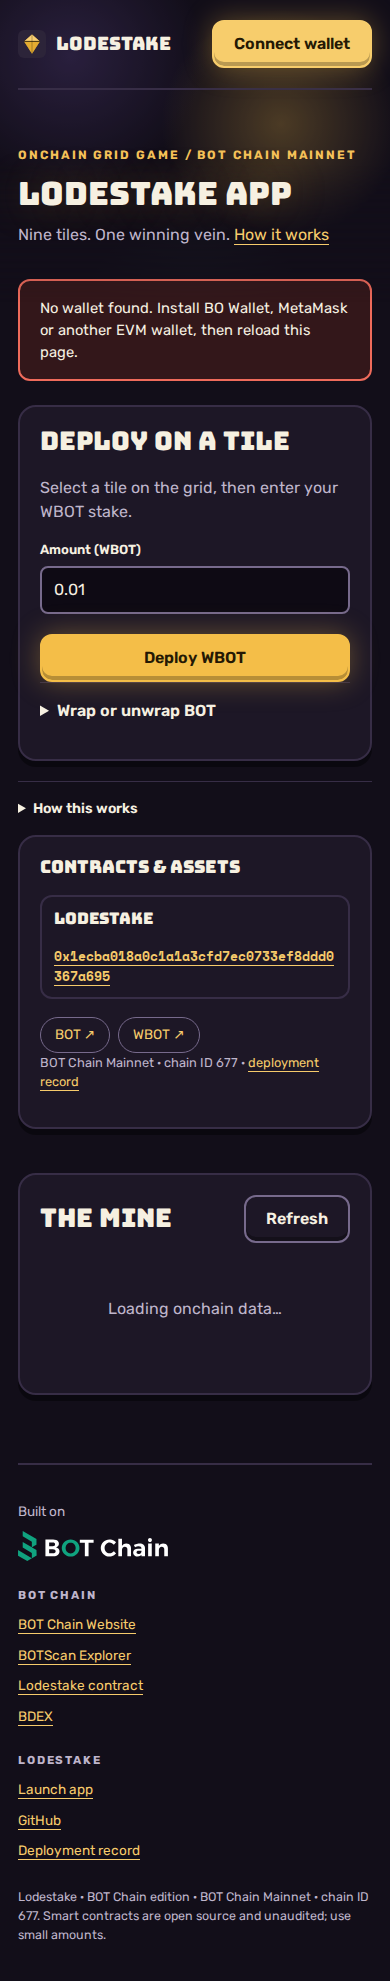
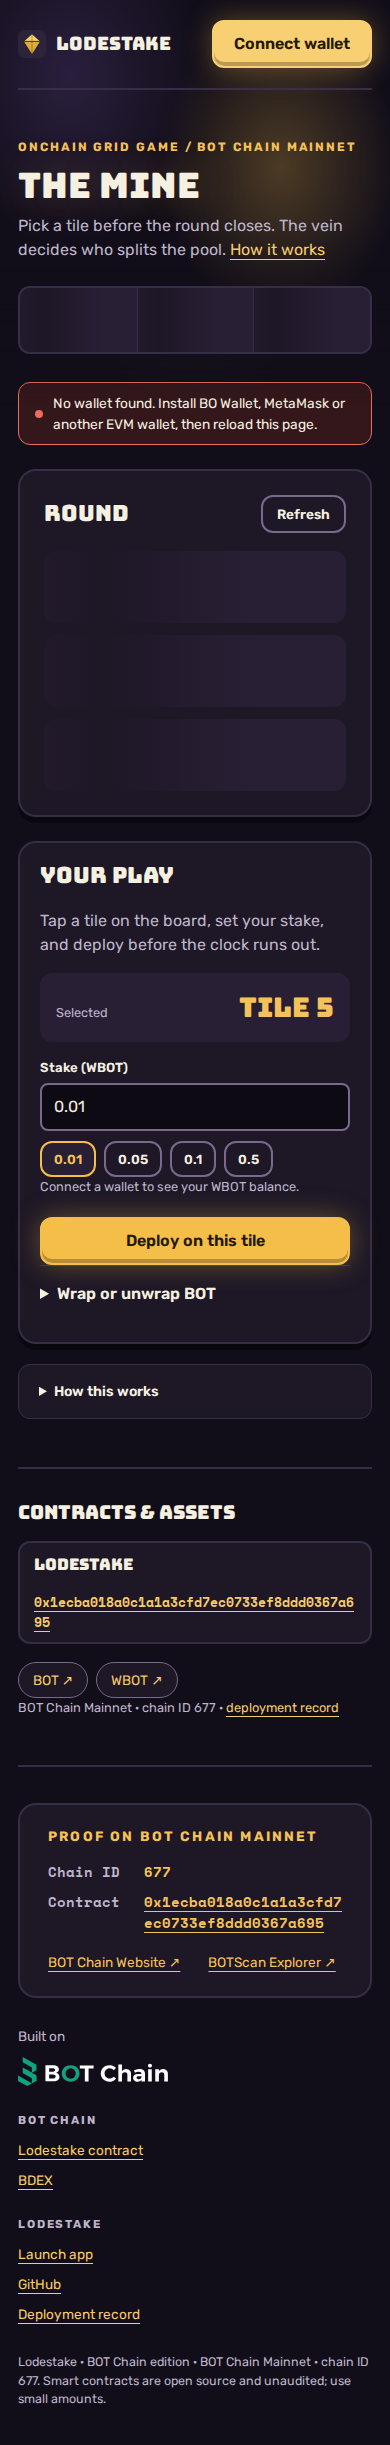
Per-product app layouts, live app-bar figures and Proof on BOT Chain Mainnet footer

diff --git a/web/base.css b/web/base.css
@@ -96,18 +96,42 @@ header{position:relative;z-index:3;display:flex;align-items:center;justify-conte
 .assets a{display:inline-flex;align-items:center;min-height:36px;padding:6px 14px;border:1px solid var(--line-strong);border-radius:var(--radius-pill);background:var(--surface);font-size:.85rem;text-decoration:none;color:var(--link)}
 .assets a:hover{border-color:var(--accent)}
 
-/* App page */
-.app-intro{position:relative;isolation:isolate;padding:52px 0 32px}
-.app-intro:before{content:'';position:absolute;left:50%;width:100vw;transform:translateX(-50%);top:-96px;bottom:-24px;z-index:-1;pointer-events:none;background:var(--hero-bg);opacity:.75;-webkit-mask-image:linear-gradient(#000 55%,transparent);mask-image:linear-gradient(#000 55%,transparent)}
-.app-intro h1{font-size:clamp(2rem,4vw,3rem);margin:12px 0}
-.app-intro p{margin:0}
-.status{margin-bottom:24px;padding:16px 20px;border:var(--border-w) solid var(--line);border-left-width:var(--border-w);border-radius:var(--radius-md);background:var(--surface);color:var(--ink);font-size:.92rem;overflow-wrap:anywhere}
-.status.error{border-color:var(--danger);background:var(--danger-bg)}
-.layout{display:grid;grid-template-columns:minmax(0,360px) minmax(0,1fr);gap:24px;align-items:start}
-.panel{padding:24px;margin-bottom:20px;background:var(--surface);border:var(--border-w) solid var(--line);border-radius:var(--radius-lg);box-shadow:var(--shadow-1)}
+/* App page: an app bar with live figures, then a product-specific workspace (data-layout). */
+.sr-only{position:absolute;width:1px;height:1px;margin:-1px;overflow:hidden;clip:rect(0 0 0 0);white-space:nowrap}
+.app-bar{position:relative;isolation:isolate;display:flex;flex-wrap:wrap;align-items:flex-end;justify-content:space-between;gap:24px 40px;padding:44px 0 28px}
+.app-bar:before{content:'';position:absolute;left:50%;width:100vw;transform:translateX(-50%);top:-96px;bottom:-24px;z-index:-1;pointer-events:none;background:var(--hero-bg);opacity:.75;-webkit-mask-image:linear-gradient(#000 55%,transparent);mask-image:linear-gradient(#000 55%,transparent)}
+.app-title{min-width:0;flex:1 1 380px}
+.app-title h1{font-size:clamp(2.2rem,4.6vw,3.6rem);margin:10px 0;max-width:none}
+.app-title p{margin:0;max-width:56ch}
+.stats{display:flex;flex-wrap:wrap;margin:0;border:var(--border-w) solid var(--line);border-radius:var(--radius-md);background:var(--surface);overflow:hidden}
+.stats>div{padding:12px 20px;min-width:118px}
+.stats>div+div{border-left:1px solid var(--line)}
+.stats dt{font-family:var(--font-label);font-size:.68rem;font-weight:700;letter-spacing:var(--label-tracking);text-transform:uppercase;color:var(--ink-2)}
+.stats dd{margin:4px 0 0;font-family:var(--font-mono);font-size:1.15rem;font-weight:700;font-variant-numeric:tabular-nums;color:var(--ink);white-space:nowrap}
+.skeleton{display:grid;gap:12px}
+.skeleton span,.skeleton-stat{display:block;height:72px;border-radius:var(--radius-md);background:linear-gradient(90deg,var(--surface-2) 25%,var(--surface) 50%,var(--surface-2) 75%);background-size:200% 100%;animation:shimmer 1.4s linear infinite}
+.skeleton-stat{width:118px;height:64px;border-radius:0}
+@keyframes shimmer{to{background-position:-200% 0}}
+.status{display:flex;align-items:center;gap:10px;margin-bottom:24px;padding:10px 16px;border:1px solid var(--line);border-radius:var(--radius-md);background:var(--surface);color:var(--ink-2);font-size:.86rem;overflow-wrap:anywhere}
+.status:before{content:'';flex:none;width:8px;height:8px;border-radius:50%;background:var(--live)}
+.status.error{border-color:var(--danger);background:var(--danger-bg);color:var(--ink)}
+.status.error:before{background:var(--danger)}
+.workspace{display:grid;gap:24px;align-items:start}
+.stage,.panel{min-width:0;padding:24px;background:var(--surface);border:var(--border-w) solid var(--line);border-radius:var(--radius-lg);box-shadow:var(--shadow-1)}
+.panel{margin-bottom:20px}
+.side{min-width:0}
+.panel>h2,.stage h2{font-size:clamp(1.4rem,2.4vw,1.9rem)}
 .panel p:first-of-type{margin-top:0}
+.workspace:is([data-layout=console],[data-layout=desk],[data-layout=wall]) .side{order:-1}
+@media(min-width:861px){
+ .workspace:is([data-layout=console],[data-layout=desk]){grid-template-columns:minmax(0,430px) minmax(0,1fr)}
+ .workspace:is([data-layout=board],[data-layout=sheet],[data-layout=calendar]){grid-template-columns:minmax(0,1fr) minmax(0,370px)}
+ .workspace:is([data-layout=board],[data-layout=sheet],[data-layout=calendar]) .side{order:1}
+ .workspace[data-layout=board] .side{position:sticky;top:20px}
+}
 .section-head{display:flex;justify-content:space-between;align-items:center;gap:20px;margin-bottom:18px}
-.section-head h2{margin:0}
+.section-head h2,.section-head h3{margin:0}
+button.quiet{min-height:38px;padding:6px 14px;font-size:.85rem;box-shadow:none}
 label{display:block;margin:16px 0 6px;font-size:.82rem;font-weight:600;color:var(--ink)}
 input,textarea,select{display:block;width:100%;min-width:0;min-height:44px;padding:10px 12px;background:var(--input-bg);color:var(--ink);border:var(--border-w) solid var(--line-strong);border-radius:var(--radius-sm)}
 input:hover,textarea:hover,select:hover{border-color:var(--ink-2)}
@@ -116,9 +140,10 @@ form button[type=submit]{width:100%;margin-top:20px}
 fieldset{min-width:0}
 details{padding:16px 0;border-top:1px solid var(--line)}
 summary{cursor:pointer;font-weight:600;color:var(--ink)}
-.rules{margin-top:20px;font-size:.88rem}
+.rules{padding:16px 20px;border:1px solid var(--line);border-radius:var(--radius-md);font-size:.88rem;background:var(--surface)}
 .rules li{margin:8px 0;color:var(--ink-2)}
-.record{font-size:.88rem;overflow-wrap:anywhere}
+.hint{margin:8px 0 0;font-size:.8rem;color:var(--ink-2)}
+.hint.error,.tiny.error{color:var(--danger-text)}
 .row{display:flex;justify-content:space-between;gap:16px;padding:9px 0;font-size:.92rem}
 .row span{color:var(--ink-2)}
 .amount{font-family:var(--font-display);font-size:1.8rem;font-weight:var(--display-weight);font-variant-numeric:tabular-nums;color:var(--ink)}
@@ -130,21 +155,105 @@ summary{cursor:pointer;font-weight:600;color:var(--ink)}
 .actions{display:flex;flex-wrap:wrap;gap:8px;margin-top:16px}
 .actions button{min-height:40px;padding:8px 14px;font-size:.85rem}
 .badge{font-family:var(--font-label);font-size:.72rem;font-weight:700;letter-spacing:var(--label-tracking);text-transform:uppercase;padding:5px 9px;border:1px solid var(--line-strong);border-radius:var(--radius-sm);color:var(--ink);background:var(--surface-2);white-space:nowrap}
+.badge.live{border-color:var(--accent);color:var(--accent-text)}
 .empty{padding:36px 8px;text-align:center;color:var(--ink-2)}
 .tiny{font-size:.8rem;color:var(--ink-2);overflow-wrap:anywhere}
-.tiny.error{color:var(--danger-text)}
+.mono{font-family:var(--font-mono);font-variant-numeric:tabular-nums}
+.sub{margin:22px 0 10px;font-family:var(--font-label);font-size:.72rem;font-weight:700;letter-spacing:var(--label-tracking);text-transform:uppercase;color:var(--ink-2)}
+/* Chips: quick amounts and slippage presets. */
+.chips{display:flex;flex-wrap:wrap;gap:8px;align-items:center;margin-top:10px}
+.chips button{min-height:36px;padding:6px 12px;font-size:.82rem;box-shadow:none}
+.chips button[aria-pressed=true]{border-color:var(--accent);color:var(--accent-text);background:var(--surface-2)}
+.chips input{width:84px;min-height:36px;padding:6px 10px}
+/* Swap ticket (Switchyard). */
+.swap-leg{padding:16px;background:var(--input-bg);border:var(--border-w) solid var(--line-strong);border-radius:var(--radius-md)}
+.swap-leg:focus-within{border-color:var(--accent)}
+.swap-leg>label,.leg-label{display:block;margin:0 0 6px;font-size:.78rem;font-weight:600;color:var(--ink-2)}
+.leg-row{display:flex;gap:10px;align-items:center}
+.leg-row input,.leg-row output{flex:1;min-width:0;min-height:48px;padding:0;border:0;background:none;font-family:var(--font-mono);font-size:clamp(1.4rem,3vw,1.9rem);font-weight:700;font-variant-numeric:tabular-nums}
+.leg-row output{display:flex;align-items:center;overflow:hidden;text-overflow:ellipsis;color:var(--ink)}
+.leg-row select{flex:none;width:auto;min-width:108px;font-weight:700;background:var(--surface-2)}
+.leg-meta{display:flex;justify-content:space-between;gap:12px;margin:6px 0 0;font-size:.78rem;color:var(--ink-2)}
+.leg-meta button{min-height:28px;padding:2px 10px;font-size:.75rem;box-shadow:none}
+.flip{display:flex;position:relative;z-index:1;width:44px;height:44px;margin:-8px auto;padding:0;border-radius:var(--radius-pill);background:var(--surface-2)}
+.flip svg{width:20px;height:20px}
+.quote{margin:16px 0 0}
+.quote>div{display:flex;justify-content:space-between;gap:12px;padding:8px 0;border-bottom:1px dashed var(--line);font-size:.85rem}
+.quote dt{color:var(--ink-2)}
+.quote dd{margin:0;font-family:var(--font-mono);color:var(--ink);text-align:right}
+/* Data tables: departure board, offer ledger. */
+.table-wrap{overflow-x:auto}
+table.board{width:100%;border-collapse:collapse;font-size:.88rem}
+.board th{padding:10px 12px;text-align:left;font-family:var(--font-label);font-size:.68rem;font-weight:700;letter-spacing:var(--label-tracking);text-transform:uppercase;color:var(--ink-2);border-bottom:var(--border-w) solid var(--line-strong)}
+.board td{padding:12px;border-bottom:1px solid var(--line);vertical-align:middle;font-variant-numeric:tabular-nums}
+.board .num{text-align:right;font-family:var(--font-mono)}
+.board tr:last-child td{border-bottom:0}
+@media(max-width:640px){.board.stack thead{display:none}.board.stack tr{display:grid;grid-template-columns:1fr auto;gap:4px 12px;padding:12px 0;border-bottom:1px solid var(--line)}.board.stack td{padding:0;border:0;text-align:left}.board.stack td.num{text-align:right}}
+/* Game board (Lodestake). */
+.hud{display:grid;grid-template-columns:repeat(3,minmax(0,1fr));gap:12px;margin-bottom:20px}
+.hud>div{padding:12px 14px;background:var(--surface-2);border-radius:var(--radius-md)}
+.hud span{display:block;font-family:var(--font-label);font-size:.68rem;font-weight:700;letter-spacing:var(--label-tracking);text-transform:uppercase;color:var(--ink-2)}
+.hud strong{display:block;margin-top:2px;font-family:var(--font-mono);font-size:1.3rem;font-variant-numeric:tabular-nums;color:var(--ink);white-space:nowrap;overflow:hidden;text-overflow:ellipsis}
+.hud .closed strong{color:var(--danger-text)}
+.mine{display:grid;grid-template-columns:repeat(3,minmax(0,1fr));gap:14px;max-width:560px;margin:0 auto}
+.mine button{aspect-ratio:1;flex-direction:column;align-items:stretch;justify-content:space-between;gap:6px;padding:14px;background:var(--tile);border-radius:var(--radius-md);text-align:left}
+.mine .n{font-family:var(--font-display);font-size:clamp(1.3rem,3vw,1.9rem);line-height:1}
+.mine .stake{font-family:var(--font-mono);font-size:.76rem;color:var(--ink-2);overflow-wrap:anywhere}
+.mine .share{display:block;height:6px;border-radius:var(--radius-pill);background:var(--bg);overflow:hidden}
+.mine .share i{display:block;height:100%;background:var(--accent)}
+.mine button[aria-pressed=true]{background:var(--accent);border-color:var(--accent);color:var(--accent-ink)}
+.mine button[aria-pressed=true] .stake{color:var(--accent-ink)}
+.mine button[aria-pressed=true] .share{background:var(--accent-ink)}
+.mine button[aria-pressed=true] .share i{background:var(--accent-hover)}
+.rounds{display:flex;gap:10px;overflow-x:auto;padding-bottom:6px}
+.round-chip{flex:none;min-width:128px;padding:10px 12px;border:var(--border-w) solid var(--line);border-radius:var(--radius-md);background:var(--surface-2);font-size:.8rem;color:var(--ink-2)}
+.round-chip strong{display:block;color:var(--ink);font-size:.9rem}
+.round-chip button{margin-top:8px;min-height:36px;padding:6px 10px;font-size:.78rem;width:100%}
+.picked{display:flex;align-items:baseline;justify-content:space-between;gap:12px;padding:14px 16px;margin:14px 0 4px;background:var(--surface-2);border-radius:var(--radius-md)}
+.picked span{font-size:.8rem;color:var(--ink-2)}
+.picked strong{font-family:var(--font-display);font-size:1.7rem;font-weight:var(--display-weight);color:var(--accent-text)}
+/* Basket factsheets (Hedgerow). */
+.sheets{display:grid;gap:18px}
+.sheet{padding:22px;background:var(--surface-2);border:1px solid var(--line);border-radius:var(--radius-md)}
+.sheet-head{display:flex;justify-content:space-between;align-items:flex-start;gap:12px 16px;flex-wrap:wrap}
+.sheet-head h3{margin:0;font-size:clamp(1.3rem,2.4vw,1.7rem);overflow-wrap:anywhere}
+.sheet-head .tiny{display:block;margin-top:4px}
+.sheet .badges{display:flex;gap:6px;flex-wrap:wrap}
+.alloc{display:flex;gap:2px;height:14px;margin:18px 0 10px;border-radius:var(--radius-pill);overflow:hidden}
+.alloc i{display:block;min-width:4px}
+.alloc i:nth-child(1),.legend li:nth-child(1):before{background:var(--accent)}
+.alloc i:nth-child(2),.legend li:nth-child(2):before{background:var(--focus)}
+.alloc i:nth-child(3),.legend li:nth-child(3):before{background:var(--link)}
+.alloc i:nth-child(4),.legend li:nth-child(4):before{background:var(--ink-2)}
+.alloc i:nth-child(5),.legend li:nth-child(5):before{background:var(--line-strong)}
+.legend{display:flex;flex-wrap:wrap;gap:6px 18px;list-style:none;padding:0;margin:0 0 6px;font-size:.84rem}
+.legend li{display:flex;align-items:center;gap:8px;color:var(--ink-2)}
+.legend li:before{content:'';width:10px;height:10px;border-radius:2px}
+.legend b{color:var(--ink);font-family:var(--font-mono);font-weight:600}
+.figs{display:grid;grid-template-columns:repeat(auto-fit,minmax(132px,1fr));gap:1px;margin:16px 0;background:var(--line);border:1px solid var(--line);border-radius:var(--radius-sm);overflow:hidden}
+.figs>div{padding:10px 12px;background:var(--surface)}
+.figs dt{font-family:var(--font-label);font-size:.66rem;font-weight:700;letter-spacing:var(--label-tracking);text-transform:uppercase;color:var(--ink-2)}
+.figs dd{margin:3px 0 0;font-family:var(--font-mono);font-size:.95rem;font-weight:600;color:var(--ink);overflow-wrap:anywhere}
+.meter{position:relative;height:8px;margin:12px 0 6px;border-radius:var(--radius-pill);background:var(--bg)}
+.meter i{display:block;height:100%;border-radius:inherit;background:var(--accent)}
+.you{margin:12px 0 0;padding:10px 12px;border-left:3px solid var(--accent);background:var(--surface);font-size:.85rem;color:var(--ink)}
+.basket{display:flex;gap:3px;margin:12px 0 14px;border-radius:var(--radius-sm);overflow:hidden}
+.basket span{min-width:0;padding:7px 8px;background:var(--surface-2);border-top:3px solid var(--accent);font-size:.75rem;white-space:nowrap;overflow:hidden;text-overflow:ellipsis}
+.weights{margin:18px 0 0;padding:4px 14px 12px;border:1px solid var(--line-strong);border-radius:var(--radius-md)}
+.weights legend{padding:0 6px;font-size:.8rem;font-weight:600}
+.weight-grid{display:grid;grid-template-columns:repeat(2,minmax(0,1fr));gap:0 12px}
+.weight-grid label{font-size:.76rem}
+.two{display:grid;grid-template-columns:repeat(2,minmax(0,1fr));gap:0 12px}
+.holdings{margin:6px 0 10px}
 .grid{display:grid;grid-template-columns:repeat(3,1fr);gap:10px;margin:20px 0}
 .grid button{aspect-ratio:1;flex-direction:column;gap:6px;padding:8px;background:var(--tile);border-radius:var(--radius-md)}
 .grid button[aria-pressed=true]{background:var(--accent);color:var(--accent-ink);border-color:var(--accent)}
 .grid button[aria-pressed=true] small{color:var(--accent-ink)}
 .grid small{font-size:.68rem;color:var(--ink-2)}
-.basket{display:flex;gap:3px;margin:12px 0 14px;border-radius:var(--radius-sm);overflow:hidden}
-.basket span{min-width:0;padding:7px 8px;background:var(--surface-2);border-top:3px solid var(--accent);font-size:.75rem;white-space:nowrap;overflow:hidden;text-overflow:ellipsis}
-.weights{margin:18px 0 0;padding:4px 14px 12px;border:1px solid var(--line-strong);border-radius:var(--radius-md)}
-.weights legend{padding:0 6px;font-size:.8rem;font-weight:600}
-.holdings{margin:6px 0 10px}
-.contracts-panel h2{font-size:1.1rem;margin-bottom:6px}
-.contracts-panel .contract{padding:10px 12px}
+.contracts-panel{margin-top:48px;padding-top:32px;border-top:var(--border-w) solid var(--line)}
+.contracts-panel h2{font-size:1.2rem;margin-bottom:6px}
+.contracts-panel .contracts{grid-template-columns:repeat(auto-fit,minmax(min(100%,420px),1fr))}
+.contracts-panel .contract{padding:10px 14px}
 a.asset{text-decoration-thickness:1px}
 .wallet-list{display:flex;flex-direction:column;gap:8px;margin:16px 0}
 .wallet-list button{justify-content:flex-start;text-align:left}
@@ -152,17 +261,28 @@ dialog{width:min(92vw,400px);padding:24px;background:var(--surface);color:var(--
 dialog::backdrop{background:var(--scrim)}
 dialog h2{margin-bottom:8px}
 dialog form>button{width:100%}
+@media(max-width:860px){.stats{width:100%}.stats>div{flex:1 1 33%}}
+@media(max-width:480px){.hud{grid-template-columns:repeat(2,minmax(0,1fr))}.hud>div:first-child{grid-column:1/-1}.mine{gap:8px}.mine button{padding:10px}.weight-grid,.two{grid-template-columns:1fr}.stats>div{padding:10px 14px;min-width:0}}
 
 /* Footer */
+.proof{grid-column:1/-1;padding:24px 28px;border:var(--border-w) solid var(--line);border-radius:var(--radius-lg);background:var(--surface)}
+.site-footer .proof h2{margin:0 0 16px;font-size:.85rem;color:var(--accent-text)}
+.proof dl{display:grid;grid-template-columns:auto minmax(0,1fr);gap:8px 24px;margin:0 0 18px;font-family:var(--font-mono);font-size:clamp(.9rem,1.6vw,1.1rem)}
+.proof dl div{display:contents}
+.proof dt{color:var(--ink-2)}
+.proof dd{margin:0;color:var(--accent-text);overflow-wrap:anywhere}
+.proof dd a{color:inherit}
+.proof-links{display:flex;flex-wrap:wrap;gap:12px 28px;margin:0}
+.proof-links a{color:var(--accent-text)}
 .site-footer{display:grid;grid-template-columns:1.2fr 1fr 1fr;gap:28px;margin-top:48px;padding:36px 0;border-top:var(--border-w) solid var(--line);font-size:.85rem;color:var(--ink-2)}
 .site-footer h2{margin:0 0 12px;font-family:var(--font-label);font-size:.72rem;font-weight:700;letter-spacing:var(--label-tracking);text-transform:uppercase;color:var(--ink-2)}
 .site-footer nav{display:flex;flex-direction:column;gap:10px}
 .built{display:inline-flex;flex-direction:column;gap:10px;color:var(--ink-2);text-decoration:none}
 .built img{width:150px;height:auto}
 .legal{grid-column:1/-1;margin:0;font-size:.78rem}
-.hidden{display:none!important}
+.hidden,[hidden]{display:none!important}
 
-@media(max-width:860px){.site-nav{display:none}.steps,.features,.facts{grid-template-columns:1fr}.site-footer{grid-template-columns:1fr}.hero{grid-template-columns:1fr;grid-template-areas:"copy" "art";gap:32px;min-height:0;padding:44px 0 48px}.hero-art svg{max-width:360px}.layout{grid-template-columns:1fr}}
+@media(max-width:860px){.site-nav{display:none}.steps,.features,.facts{grid-template-columns:1fr}.site-footer{grid-template-columns:1fr}.hero{grid-template-columns:1fr;grid-template-areas:"copy" "art";gap:32px;min-height:0;padding:44px 0 48px}.hero-art svg{max-width:360px}}
 @media(max-width:760px){.shell{padding:0 18px}.band{padding:44px 0}.panel{padding:20px}.cta-band{padding:36px 22px}#add-chain{display:none}.chain-badge.compact{display:none}}
 @media(max-width:480px){header{gap:10px}.header-actions{gap:6px}.chain-badge span{display:none}.chain-badge{padding:6px 8px}.chain-badge img{height:12px}.header-actions a.button{min-height:40px;padding:8px 12px;font-size:.85rem}.brand{font-size:1.15rem}.brand .logo{width:28px;height:28px}h1{font-size:2.6rem}}
 @media(prefers-reduced-motion:reduce){*,*:before,*:after{transition:none!important;animation:none!important;scroll-behavior:auto!important}}

diff --git a/web/products/lodestake.js b/web/products/lodestake.js
@@ -1,18 +1,56 @@
-import {$,config,state,esc,fmt,button,action,field,form,amount,read,tx,approve,client,tokenAbi,wrapForms,chainTime,asset,start} from '../core.js';
-let selectedTile=0;
+import {$,config,state,esc,fmt,button,form,amount,read,tx,approve,client,tokenAbi,wrapForms,chainTime,asset,status,start} from '../core.js';
+const trim=v=>{const [a,b='']=v.split('.');return b?`${a}.${b.slice(0,4).replace(/0+$/,'')||'0'}`.replace(/\.0$/,''):a;};
+let lastResult='—',selectedTile=4,round=null,roundId=0n,clockOffset=0,timer=null,played=0,mineTile=null;
+// The current round only rolls over when someone settles it. If its window has closed, open the next one first:
+// request settlement, wait the five-block reveal delay, then finalize. Anyone may do this.
+async function openNextRound(){
+ const r=await read('Lodestake','getRound',[await read('Lodestake','currentRoundId')]);
+ if(!r.settleRequested){status('This round closed. Opening the next round (1 of 2)…');await tx('Lodestake','requestSettle');}
+ const ready=Number((await read('Lodestake','getRound',[await read('Lodestake','currentRoundId')])).requestBlock)+5;
+ status('Waiting five blocks for the reveal…');while(Number(await client.getBlockNumber())<ready)await new Promise(r=>setTimeout(r,800));
+ status('Settling the closed round (2 of 2)…');await tx('Lodestake','finalizeSettle');
+}
+async function stake(f){
+ const n=amount(f.stake);
+ let r=await read('Lodestake','getRound',[await read('Lodestake','currentRoundId')]);
+ if(await chainTime()>=Number(r.endTime)||r.settleRequested)await openNextRound();
+ const id=await read('Lodestake','currentRoundId');if(state.account&&await read('Lodestake','playerRoundTotal',[id,state.account])>0n)throw Error('You already hold a tile this round. Wait for the next round.');
+ await approve(config.infrastructure.WBOT,config.contracts.Lodestake,n);await tx('Lodestake','deploy',[selectedTile,n]);
+}
+function pick(n){selectedTile=n;for(const b of document.querySelectorAll('[data-tile]'))b.setAttribute('aria-pressed',String(Number(b.dataset.tile)===n));const p=$('picked-tile');if(p)p.textContent=`Tile ${n+1}`;}
 function controls(){
- $('list-title').textContent='The mine';
- $('controls').innerHTML='<h2>Deploy on a tile</h2><p>Select a tile on the grid, then enter your WBOT stake.</p>'+form('stake',field('stake','Amount (WBOT)','0.01','text','inputmode="decimal"'),'Deploy WBOT',async f=>{const n=amount(f.stake);const r=await read('Lodestake','getRound',[await read('Lodestake','currentRoundId')]);if(Number((await client.getBlock()).timestamp)>=Number(r.endTime))throw Error('This round\'s deploy window has closed. Request settlement below to open the next round, then stake.');await approve(config.infrastructure.WBOT,config.contracts.Lodestake,n);await tx('Lodestake','deploy',[selectedTile,n]);})+wrapForms();
- $('rules').innerHTML='<ul><li>One tile per wallet per round; a round lasts two minutes.</li><li>5% of losing stakes goes to the treasury. Winners split the remainder in proportion to their stake on the winning tile.</li><li>Solo rounds refund the full stake. Anyone can request and finalize settlement.</li><li>The winner uses a fixed future block hash, not a VRF. Validators can influence this randomness.</li><li>If settlement expires after 256 blocks, every player receives a refund. House staking is disabled.</li></ul>';
+ $('list-title').textContent=`Round`;
+ $('controls').innerHTML='<h2>Your play</h2><p>Tap a tile on the board, set your stake, and deploy before the clock runs out.</p>'
+  +`<div class="picked"><span>Selected</span><strong id="picked-tile">Tile ${selectedTile+1}</strong></div>`
+  +form('stake',`<label for="stake">Stake (WBOT)</label><input id="stake" name="stake" value="0.01" inputmode="decimal" autocomplete="off" required><div class="chips" role="group" aria-label="Quick stake">${['0.01','0.05','0.1','0.5'].map(v=>`<button type="button" data-amt="${v}" aria-pressed="${v==='0.01'}">${v}</button>`).join('')}</div><p class="hint" id="stake-bal">Connect a wallet to see your WBOT balance.</p>`,'Deploy on this tile',stake)
+  +wrapForms();
+ $('controls').addEventListener('click',e=>{const b=e.target.closest('[data-amt]');if(!b)return;$('stake').value=b.dataset.amt;for(const x of document.querySelectorAll('[data-amt]'))x.setAttribute('aria-pressed',String(x===b));});
+ $('records').addEventListener('click',e=>{const b=e.target.closest('[data-tile]');if(b)pick(Number(b.dataset.tile));});
+ $('rules').innerHTML='<ul><li>One tile per wallet per round; a round lasts two minutes from when it opens.</li><li>5% of losing stakes goes to the treasury. Winners split the rest in proportion to their stake on the winning tile.</li><li>Solo rounds refund the full stake. Anyone can settle a closed round; staking after the window opens the next round for you first.</li><li>The winner comes from a fixed future block hash, not a VRF. Validators can influence this randomness.</li><li>If settlement expires after 256 blocks, every player receives a refund. House staking is disabled.</li></ul>';
 }
+function tick(){const el=$('clock');if(!el||!round)return;const left=Number(round.endTime)-Math.floor(Date.now()/1000+clockOffset);
+ const box=el.closest('div');if(left>0){el.textContent=`${Math.floor(left/60)}:${String(left%60).padStart(2,'0')}`;box.classList.remove('closed');}
+ else{el.textContent=round.settleRequested?'Settling':'Closed';box.classList.add('closed');}}
 async function render(){
- const id=await read('Lodestake','currentRoundId'),r=await read('Lodestake','getRound',[id]),totals=await read('Lodestake','getTileTotals',[id]);
- let html=`<div class="row"><span>Round</span><strong>#${id}</strong></div><div class="row"><span>Pool</span><strong>${fmt(r.totalDeployed)} ${asset('WBOT')}</strong></div><div class="row"><span>Deploy window ends</span><strong>${new Date(Number(r.endTime)*1000).toLocaleTimeString()}</strong></div><div class="grid" role="group" aria-label="Choose your tile">`;
- for(let n=0;n<9;n++){const key=`tile${n}`;action(key,async()=>{selectedTile=n;});html+=`<button data-action="${key}" aria-pressed="${selectedTile===n}" aria-label="Tile ${n+1}, ${esc(fmt(totals[n]))} WBOT"><strong>${n+1}</strong><small>${esc(fmt(totals[n]))} WBOT</small></button>`;}html+='</div>';
- if(await chainTime()>=Number(r.endTime))html+=`<div class="actions">${button(r.settleRequested?'Finalize settlement':'Request settlement',()=>tx('Lodestake',r.settleRequested?'finalizeSettle':'requestSettle'),true)}</div>`;
- if(r.settleRequested)html+=`<p class="tiny">Settlement requested at block ${r.requestBlock}. Finalize after five blocks; expired rounds refund all stakes.</p>`;
- if(state.account){const balance=await client.readContract({address:config.infrastructure.WBOT,abi:tokenAbi,functionName:'balanceOf',args:[state.account]});html+=`<p class="tiny">Your balance: ${fmt(balance)} ${asset('WBOT')}</p>`;}
- html+='<h3>Recent rounds</h3>';
- for(let old=id-1n;old>=1n&&old>=id-10n;old--){const round=await read('Lodestake','getRound',[old]);const pending=state.account?await read('Lodestake','pendingClaim',[old,state.account]):0n;html+=`<div class="item"><div class="row"><span>Round #${old}</span><strong>${round.refundMode?'Refund':round.totalDeployed===0n?'Empty':`Tile ${round.winningTile+1} won`}</strong></div>${pending>0n?button(`Claim ${fmt(pending)} WBOT`,()=>tx('Lodestake','claim',[old]),true):''}</div>`;}return html;
+ const now=await chainTime();clockOffset=now-Date.now()/1000;
+ roundId=await read('Lodestake','currentRoundId');round=await read('Lodestake','getRound',[roundId]);const totals=await read('Lodestake','getTileTotals',[roundId]);
+ const pool=round.totalDeployed,open=now<Number(round.endTime)&&!round.settleRequested;played=Number(round.uniquePlayers);
+ mineTile=null;if(state.account){const mine=await Promise.all([...Array(9)].map((_,n)=>read('Lodestake','playerTileDeposits',[roundId,state.account,n])));const t=mine.findIndex(v=>v>0n);if(t>=0)mineTile=t;
+  const bal=await client.readContract({address:config.infrastructure.WBOT,abi:tokenAbi,functionName:'balanceOf',args:[state.account]});const h=$('stake-bal');if(h)h.innerHTML=`Balance: ${esc(trim(fmt(bal)))} ${asset('WBOT')}`;}
+ $('list-title').textContent=`Round #${roundId}`;
+ let html=`<div class="hud"><div><span>Clock</span><strong id="clock">—</strong></div><div><span>Pool</span><strong>${trim(fmt(pool))} WBOT</strong></div><div><span>Players</span><strong>${played}</strong></div></div>`;
+ html+=`<div class="mine" role="group" aria-label="Choose your tile">`;
+ for(let n=0;n<9;n++){const share=pool>0n?Number(totals[n]*1000n/pool)/10:0;
+  html+=`<button type="button" data-tile="${n}" aria-pressed="${selectedTile===n}" aria-label="Tile ${n+1}: ${esc(trim(fmt(totals[n])))} WBOT staked${mineTile===n?', your tile':''}"><span class="n">${n+1}</span><span class="stake">${trim(fmt(totals[n]))} WBOT${mineTile===n?' · yours':''}</span><span class="share"><i style="width:${share}%"></i></span></button>`;}
+ html+='</div>';
+ if(mineTile!==null)html+=`<p class="you">You hold tile ${mineTile+1} this round.</p>`;
+ if(!open)html+=`<div class="actions">${button(round.settleRequested?'Finalize this round':'Settle and open the next round',async()=>{if(round.settleRequested){await tx('Lodestake','finalizeSettle');}else await openNextRound();},true)}</div><p class="tiny">${round.settleRequested?`Settlement requested at block ${round.requestBlock}. Finalize after five blocks; expired rounds refund all stakes.`:'This round\'s window has closed. Staking opens the next round automatically.'}</p>`;
+ const ids=[];for(let old=roundId-1n;old>=1n&&old>=roundId-8n;old--)ids.push(old);
+ const past=await Promise.all(ids.map(async old=>[old,await read('Lodestake','getRound',[old]),state.account?await read('Lodestake','pendingClaim',[old,state.account]):0n]));
+ lastResult=past.length?(past[0][1].refundMode?'Refund':past[0][1].totalDeployed===0n?'No players':`Tile ${past[0][1].winningTile+1}`):'—';
+ if(past.length){html+='<h3 class="sub">Recent rounds</h3><div class="rounds">'+past.map(([old,r,pending])=>`<div class="round-chip"><strong>#${old}</strong>${r.refundMode?'Refunded':r.totalDeployed===0n?'No players':`Tile ${r.winningTile+1} won · ${trim(fmt(r.totalDeployed))} WBOT`}${pending>0n?button(`Claim ${trim(fmt(pending))}`,()=>tx('Lodestake','claim',[old]),true):''}</div>`).join('')+'</div>';}
+ return html;
 }
-start({controls,render});
+function after(){clearInterval(timer);tick();timer=setInterval(tick,1000);}
+function stats(empty){return [['Rounds settled',empty||!round?'—':String(roundId-1n)],['Last result',empty?'—':lastResult],['Treasury share','5%']];}
+start({controls,render,after,stats});

diff --git a/web/app.html b/web/app.html
@@ -1,1 +1,1 @@
-<!doctype html><html lang="en"><head><meta charset="UTF-8"><meta name="viewport" content="width=device-width,initial-scale=1"><meta name="theme-color" content="__THEME_COLOR__"><title>__NAME__ App · BOT Chain</title><meta name="description" content="__DESCRIPTION__"><link rel="icon" href="/icon.svg" type="image/svg+xml"><link rel="stylesheet" href="/style.css"></head><body><a class="skip" href="#main">Skip to app</a><div class="shell"><header><a class="brand" href="/">__LOGO____NAME__</a><div class="header-actions"><a class="chain-badge compact" href="https://www.botchain.ai/" target="_blank" rel="noopener noreferrer" aria-label="Built on BOT Chain"><span>Built on</span><img src="/__BOTCHAIN_LOGO__" alt="BOT Chain" width="96" height="19"></a><button id="add-chain" type="button">Add BOT Chain</button><button id="connect" type="button" class="primary">Connect wallet</button></div></header><main id="main"><section class="app-intro"><span class="eyebrow">__EYEBROW__ / __NETWORK_UPPER__</span><h1>__NAME__ app</h1><p>__LINE__ <a href="/">How it works</a></p></section><div id="status" class="status" role="status" aria-live="polite">Checking deployment…</div><div id="workspace" class="layout"><aside><div id="controls" class="panel"></div><details class="rules"><summary>How this works</summary><div id="rules"></div></details><div class="panel contracts-panel"><h2>Contracts &amp; assets</h2><div class="contracts">__CONTRACTS__</div><ul class="assets">__ASSETS__</ul><p class="tiny">__NETWORK__ · chain ID __CHAIN_ID__ · __FAUCET__<a href="/deployment.json">deployment record</a></p></div></aside><section class="panel"><div class="section-head"><h2 id="list-title">Activity</h2><button id="refresh" type="button">Refresh</button></div><div id="records" aria-live="polite"><p class="empty">Loading onchain data…</p></div></section></div></main>__FOOTER__</div><dialog id="wallets" aria-labelledby="wallets-title"><form method="dialog"><h2 id="wallets-title">Choose a wallet</h2><p class="tiny">Any EVM wallet works on BOT Chain, including BO Wallet and MetaMask.</p><div id="wallet-list" class="wallet-list"></div><button value="cancel">Cancel</button></form></dialog><script type="module" src="/app.js"></script></body></html>
+<!doctype html><html lang="en"><head><meta charset="UTF-8"><meta name="viewport" content="width=device-width,initial-scale=1"><meta name="theme-color" content="__THEME_COLOR__"><title>__NAME__ App · BOT Chain</title><meta name="description" content="__DESCRIPTION__"><link rel="icon" href="/icon.svg" type="image/svg+xml"><link rel="stylesheet" href="/style.css"></head><body class="app-page"><a class="skip" href="#main">Skip to app</a><div class="shell"><header><a class="brand" href="/">__LOGO____NAME__</a><div class="header-actions"><a class="chain-badge compact" href="https://www.botchain.ai/" target="_blank" rel="noopener noreferrer" aria-label="Built on BOT Chain"><span>Built on</span><img src="/__BOTCHAIN_LOGO__" alt="BOT Chain" width="96" height="19"></a><button id="add-chain" type="button">Add BOT Chain</button><button id="connect" type="button" class="primary">Connect wallet</button></div></header><main id="main"><section class="app-bar"><div class="app-title"><span class="eyebrow">__EYEBROW__ / __NETWORK_UPPER__</span><h1 id="app-title">__APP_TITLE__</h1><p>__APP_LINE__ <a href="/#how">How it works</a></p></div><dl id="stats" class="stats" aria-live="polite"><div class="skeleton-stat"></div><div class="skeleton-stat"></div><div class="skeleton-stat"></div></dl></section><div id="status" class="status" role="status" aria-live="polite">Checking deployment…</div><div id="workspace" class="workspace" data-layout="__APP_LAYOUT__"><section id="stage" class="stage" aria-labelledby="list-title"><div class="section-head"><h2 id="list-title">Activity</h2><button id="refresh" type="button" class="quiet">Refresh</button></div><div id="records" aria-live="polite"><div class="skeleton" aria-hidden="true"><span></span><span></span><span></span></div><p class="sr-only">Loading onchain data…</p></div></section><aside id="side" class="side"><div id="controls" class="panel"></div><details class="rules"><summary>How this works</summary><div id="rules"></div></details></aside></div><section class="contracts-panel" aria-labelledby="contracts-title"><h2 id="contracts-title">Contracts &amp; assets</h2><div class="contracts">__CONTRACTS__</div><ul class="assets">__ASSETS__</ul><p class="tiny">__NETWORK__ · chain ID __CHAIN_ID__ · __FAUCET__<a href="/deployment.json">deployment record</a></p></section></main>__FOOTER__</div><dialog id="wallets" aria-labelledby="wallets-title"><form method="dialog"><h2 id="wallets-title">Choose a wallet</h2><p class="tiny">Any EVM wallet works on BOT Chain, including BO Wallet and MetaMask.</p><div id="wallet-list" class="wallet-list"></div><button value="cancel">Cancel</button></form></dialog><script type="module" src="/app.js"></script></body></html>

diff --git a/web/core.js b/web/core.js
@@ -81,17 +81,19 @@ export const mine=a=>!!state.account&&a?.toLowerCase()===state.account.toLowerCa
 let product;
 async function run(fn){if(busy)return;busy=true;$('workspace').setAttribute('aria-busy','true');try{await fn();await refresh();}catch(e){status(e.shortMessage||e.message||'The request failed. Please retry.',true);}finally{busy=false;$('workspace').removeAttribute('aria-busy');}}
 let renderSeq=0;
+/** Headline figures in the app bar: [[label, html], …]. Values are trusted HTML built by the product script. */
+function stats(list){const el=$('stats');el.hidden=!list;if(list)el.innerHTML=list.map(([k,v])=>`<div><dt>${esc(k)}</dt><dd>${v}</dd></div>`).join('');}
 async function refresh(){
- if(!state.verified){$('records').innerHTML=`<p class="empty">This app is awaiting its ${net.label} contract deployment. Transactions unlock once the deployment is verified.</p>`;return;}
+ if(!state.verified){stats(product.stats?.(true));$('records').innerHTML=`<p class="empty">This app is awaiting its ${net.label} contract deployment. Transactions unlock once the deployment is verified.</p>`;return;}
  // A slower, older render (for example from before the wallet connected) must never overwrite a newer one.
  const seq=++renderSeq;$('records').setAttribute('aria-busy','true');
- try{const html=await product.render();if(seq===renderSeq)$('records').innerHTML=html;}finally{if(seq===renderSeq)$('records').removeAttribute('aria-busy');}
+ try{const html=await product.render();if(seq===renderSeq){$('records').innerHTML=html;stats(product.stats?.());product.after?.();}}finally{if(seq===renderSeq)$('records').removeAttribute('aria-busy');}
 }
 async function boot(){
  if(!config.ready){status(`Deployment pending — ${net.label} transactions are not enabled yet.`);await refresh();return;}
  try{if(await client.getChainId()!==net.id)throw Error('RPC returned an unexpected network.');const code=await client.getCode({address:config.contracts[config.contract]});if(!code||code==='0x')throw Error('The app contract is unavailable.');
   state.verified=true;await product.onVerified?.();status(`Connected to ${net.label}.${net.key==='testnet'?' Test BOT is free from the faucet.':''} Connect your wallet to get started.`);await refresh();}
- catch(e){status(e.shortMessage||e.message,true);$('records').innerHTML='<p class="empty">Could not load onchain data. Use Refresh to retry.</p>';}
+ catch(e){status(e.shortMessage||e.message,true);stats(product.stats?.(true));$('records').innerHTML='<p class="empty">Could not load onchain data. Use Refresh to retry.</p>';}
 }
 export function start(p){
  product=p;

diff --git a/web/themes/lodestake/theme.css b/web/themes/lodestake/theme.css
@@ -17,8 +17,12 @@ h2{line-height:1.15}
 .steps li{background:var(--surface-2);box-shadow:inset 0 -6px 0 rgba(0,0,0,.3)}
 .steps li:before{display:inline-grid;place-items:center;width:44px;height:44px;border-radius:12px;background:var(--accent);color:var(--accent-ink);font-family:var(--font-display);font-weight:400;box-shadow:inset 0 -4px 0 rgba(0,0,0,.25),0 0 24px rgba(244,190,72,.35)}
 .features div{border-left:0;background:var(--surface);border:2px solid var(--line);border-radius:var(--radius-md);padding:18px}
-.grid button{box-shadow:inset 0 -6px 0 rgba(0,0,0,.3);font-family:var(--font-display)}
-.grid button[aria-pressed=true]{box-shadow:inset 0 -6px 0 rgba(0,0,0,.22),0 0 0 3px var(--focus),0 0 30px rgba(244,190,72,.45)}
+.grid button,.mine button{box-shadow:inset 0 -6px 0 rgba(0,0,0,.3)}
+.grid button{font-family:var(--font-display)}
+.mine button:hover:not(:disabled){box-shadow:inset 0 -6px 0 rgba(0,0,0,.3),0 0 18px rgba(244,190,72,.25)}
+.grid button[aria-pressed=true],.mine button[aria-pressed=true]{box-shadow:inset 0 -6px 0 rgba(0,0,0,.22),0 0 0 3px var(--focus),0 0 30px rgba(244,190,72,.45)}
 button.primary,a.button.primary{box-shadow:inset 0 -4px 0 rgba(0,0,0,.25),0 0 28px rgba(244,190,72,.35)}
 .launch{background:var(--surface-2)}
 .cta-band{background:radial-gradient(60% 120% at 85% 0%,rgba(244,190,72,.25),transparent 60%),var(--surface);border-color:var(--accent)}
+.hud>div{box-shadow:inset 0 -4px 0 rgba(0,0,0,.25)}
+.hud strong{font-family:var(--font-display);font-weight:400}
